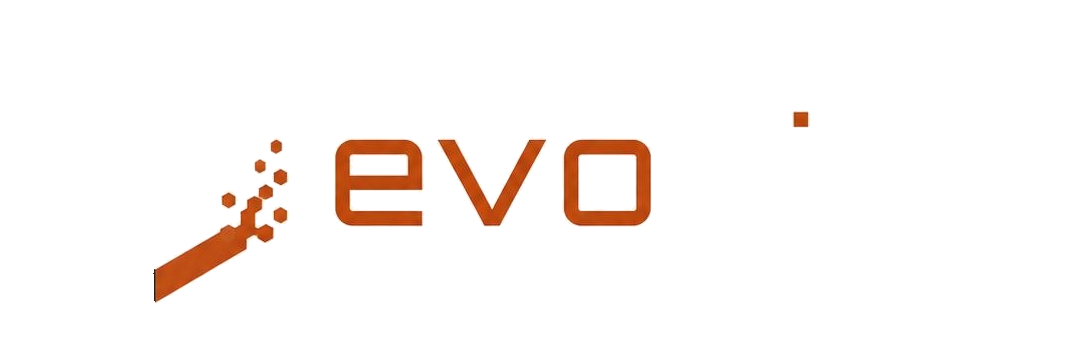
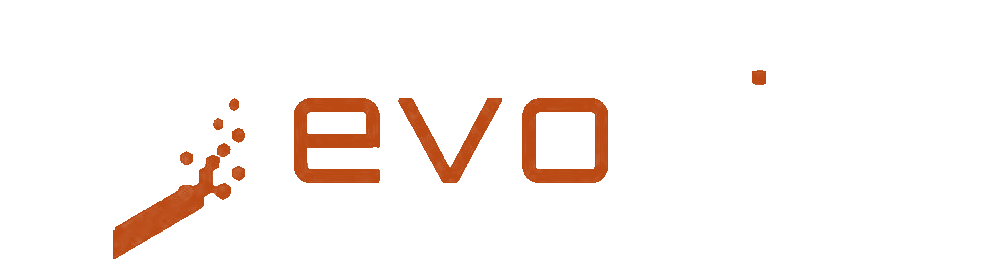
Remove section products

Changed region(s): [[0.0911, 0.3678, 0.6377, 0.9808], [0.7287, 0.2759, 0.7895, 0.3678]]

diff --git a/index.html b/index.html
@@ -232,31 +232,7 @@
         </div>
       </div>
     </section>
-
-    <section id="products" class="section products">
-      <div class="container">
-        <div class="section__head reveal">
-          <span class="section__tag">Собственные продукты</span>
-          <h2 class="section__title">Решения, которые мы развиваем</h2>
-        </div>
-
-        <div class="products__grid">
-          <a href="https://youparse.ru/" target="_blank" rel="noopener" class="product-card reveal">
-            <div class="product-card__logo-wrap">
-              <img src="/png/youparse_logo_light.png" alt="YouParse" class="product-card__logo" />
-            </div>
-            <p>Автоматизированный сбор информации в интернете</p>
-          </a>
-          <div class="product-card reveal">
-            <div class="product-card__logo-wrap">
-              <img src="/png/isolarium.png" alt="Isolarium" class="product-card__logo" />
-            </div>
-            <p>Платформа для запуска приложений в изолированных средах</p>
-          </div>
-        </div>
-      </div>
-    </section>
-
+    
     <section id="process" class="section process">
       <div class="container">
         <div class="section__head reveal">

diff --git a/styles.css b/styles.css
@@ -73,6 +73,8 @@ a {
 .logo__img {
     height: 64px;
     width: auto;
+    max-width: 220px;
+    object-fit: contain;
     display: block;
 }
 
@@ -931,6 +933,7 @@ a {
 
     .logo__img {
         height: 72px;
+        max-width: 240px;
     }
 
     .logo__img--footer {
@@ -1021,5 +1024,6 @@ a {
 
     .logo__img {
         height: 80px;
+        max-width: 260px;
     }
 }
